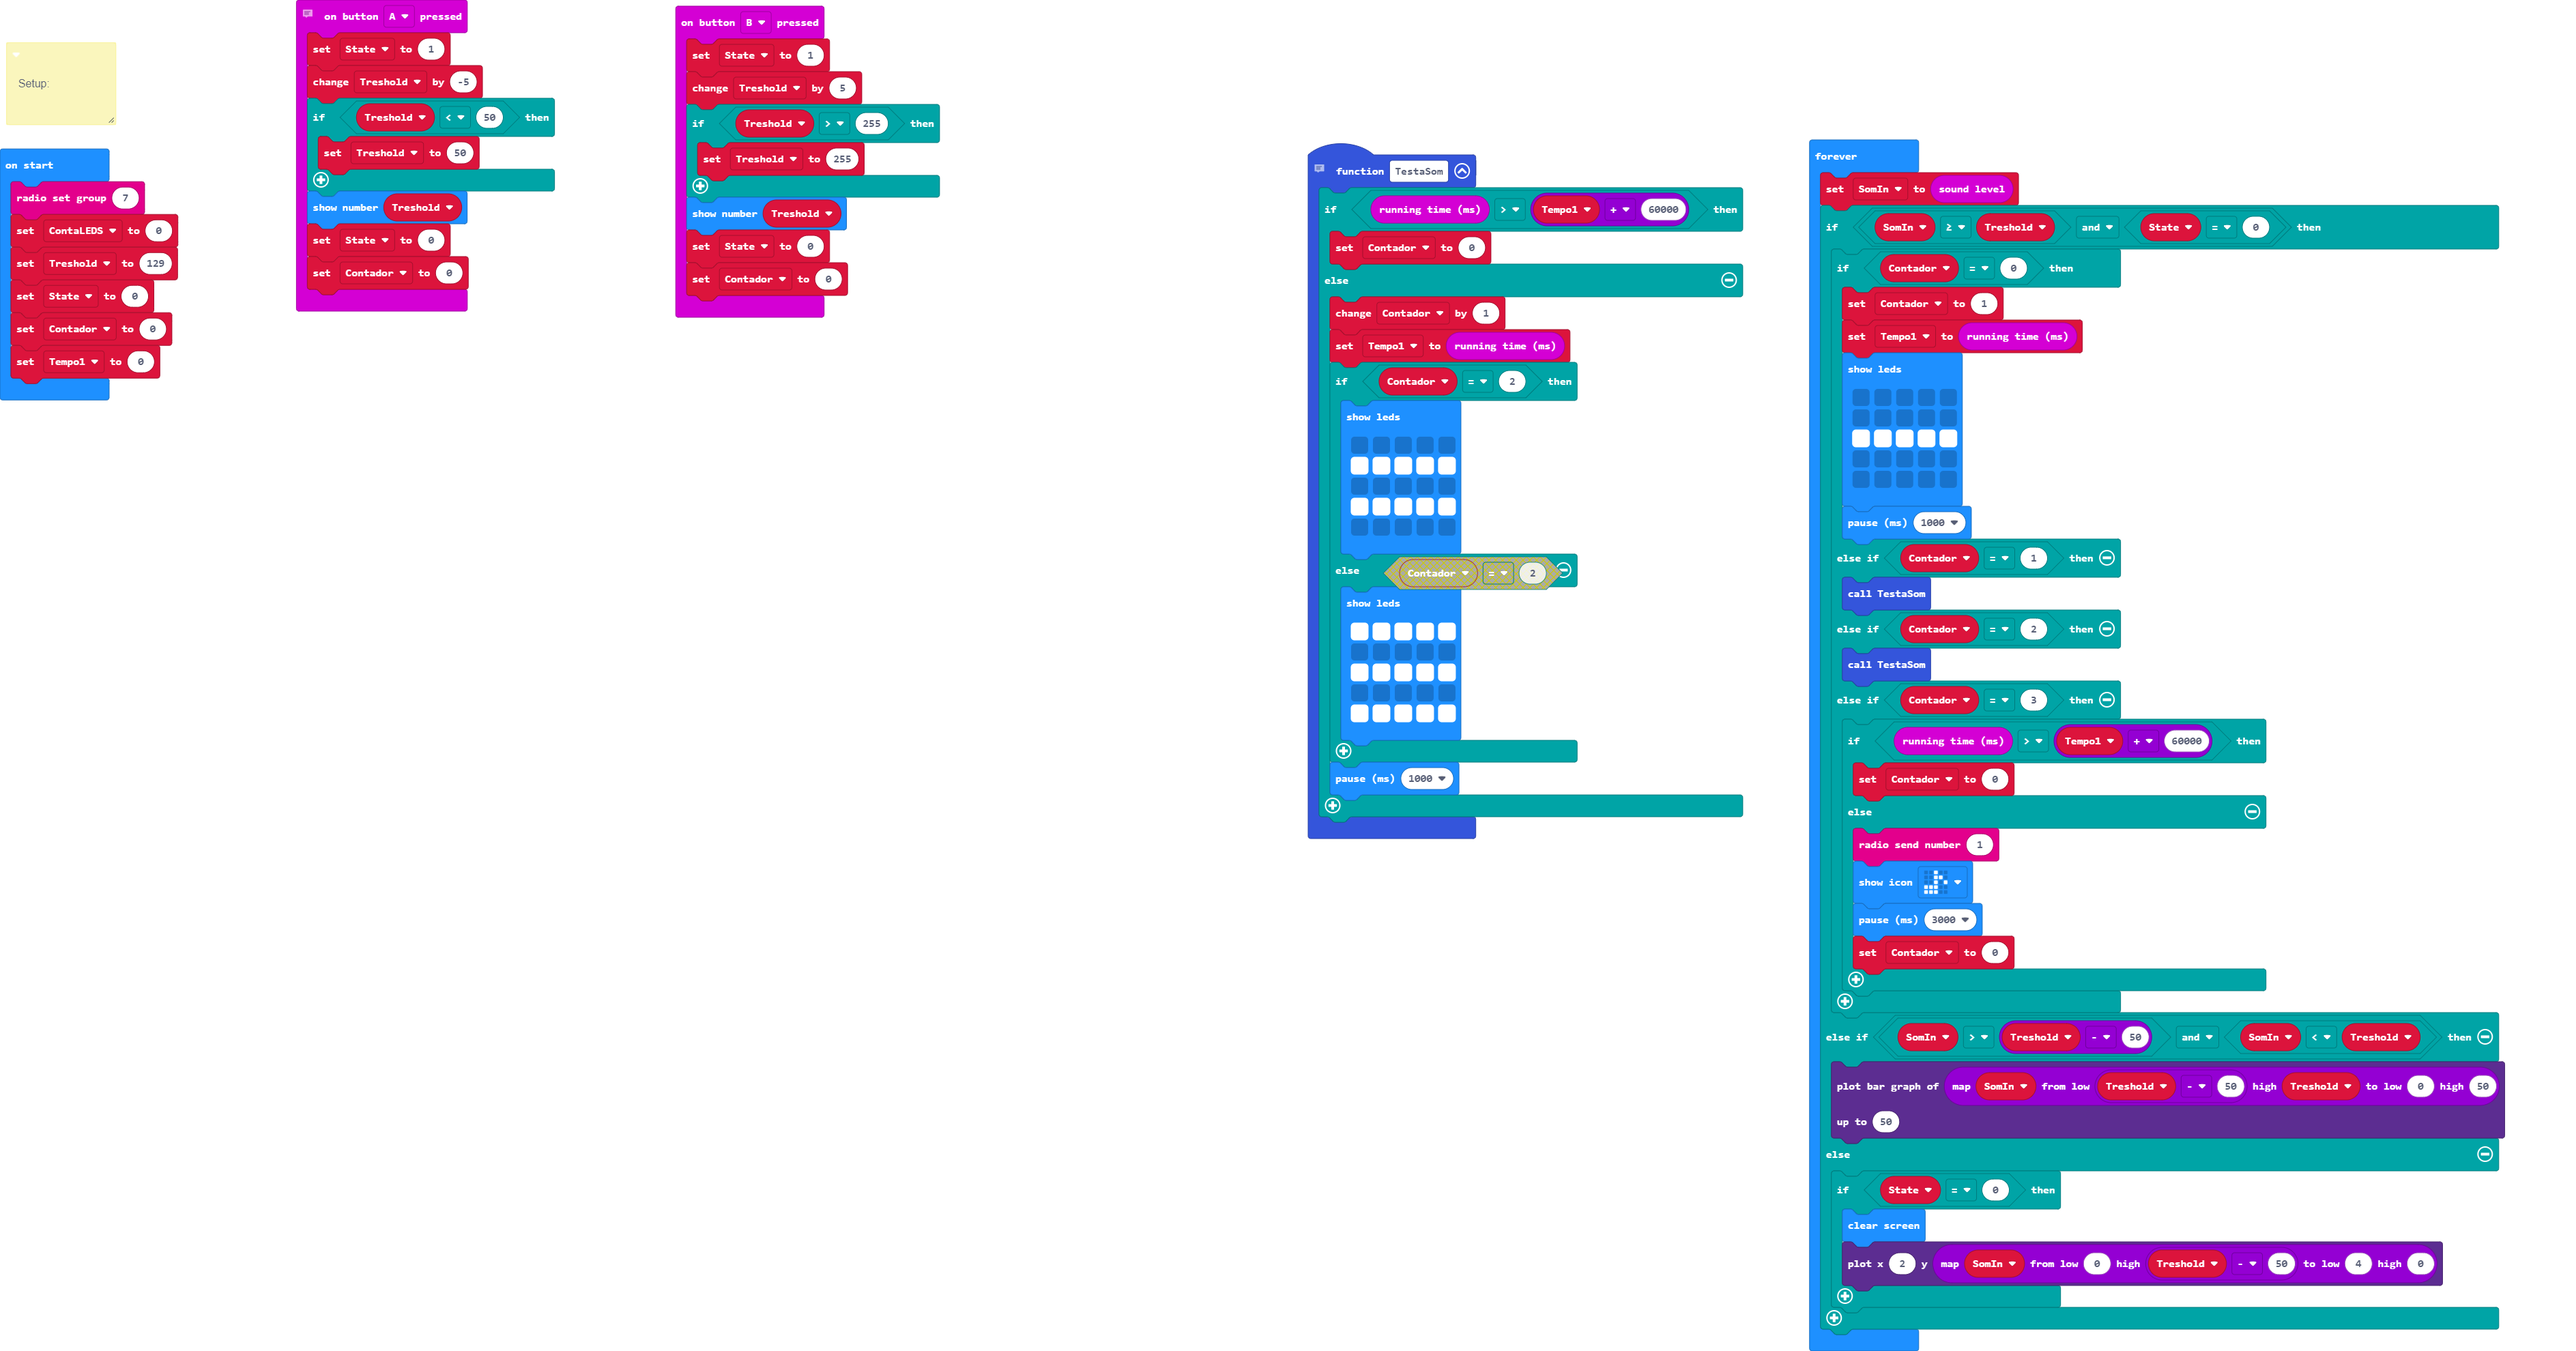
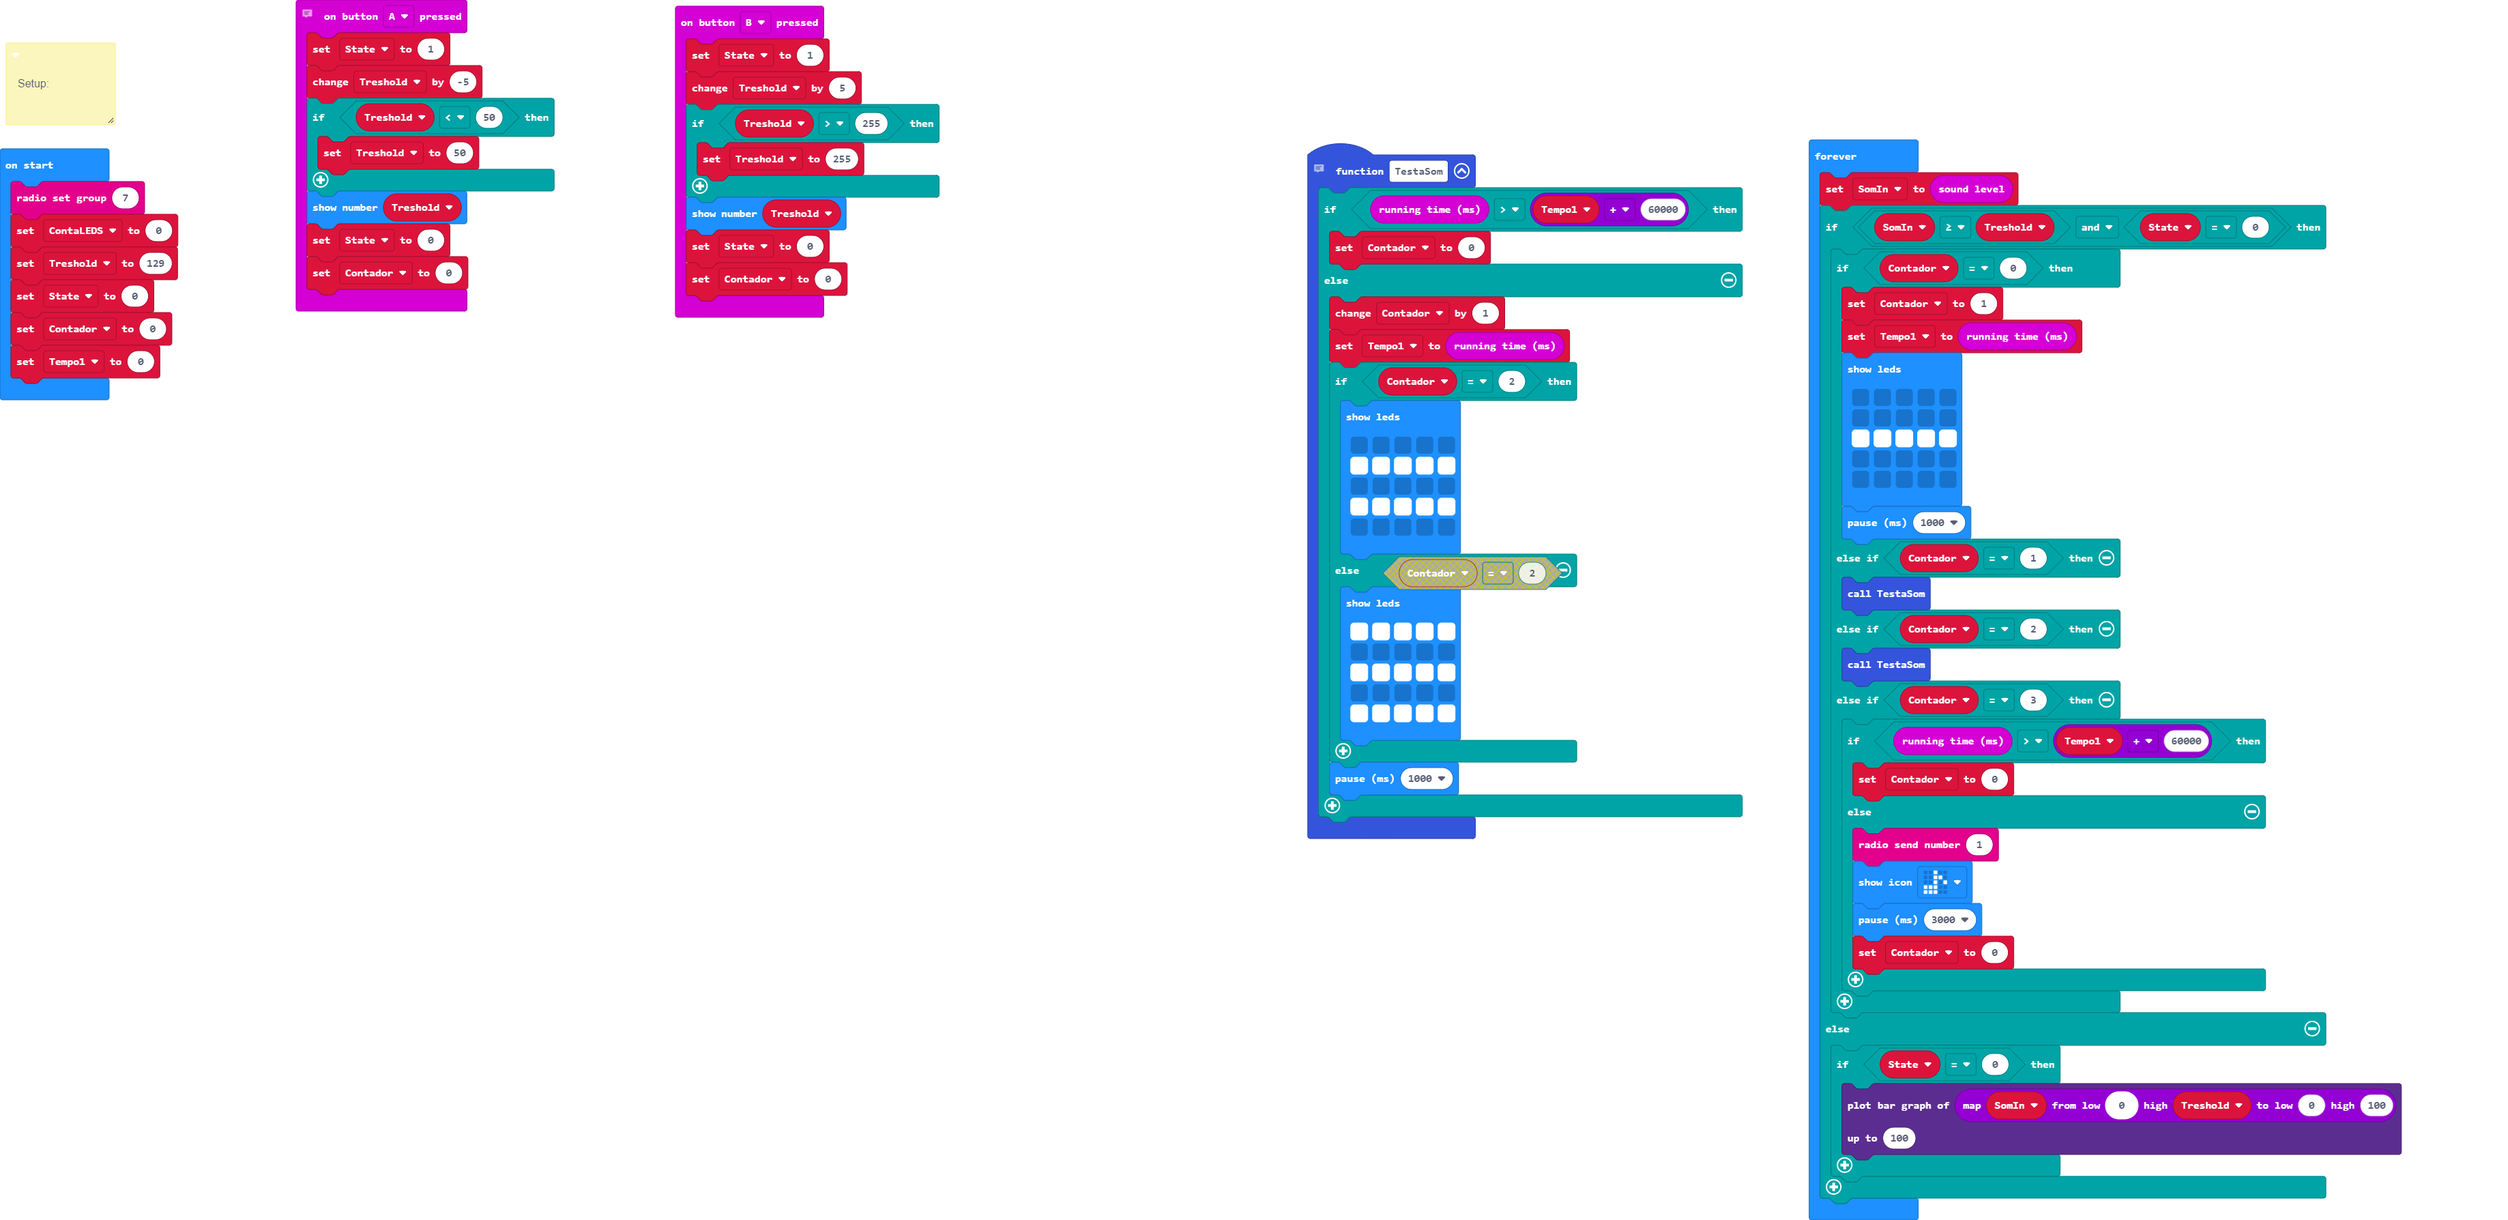
Simplificar

diff --git a/main.ts b/main.ts
@@ -88,15 +88,12 @@ basic.forever(function () {
                 Contador = 0
             }
         }
-    } else if (SomIn > Treshold - 50 && SomIn < Treshold) {
-        led.plotBarGraph(
-        Math.map(SomIn, Treshold - 50, Treshold, 0, 50),
-        50
-        )
     } else {
         if (State == 0) {
-            basic.clearScreen()
-            led.plot(2, Math.map(SomIn, 0, Treshold - 50, 4, 0))
+            led.plotBarGraph(
+            Math.map(SomIn, 0, Treshold, 0, 100),
+            100
+            )
         }
     }
 })
